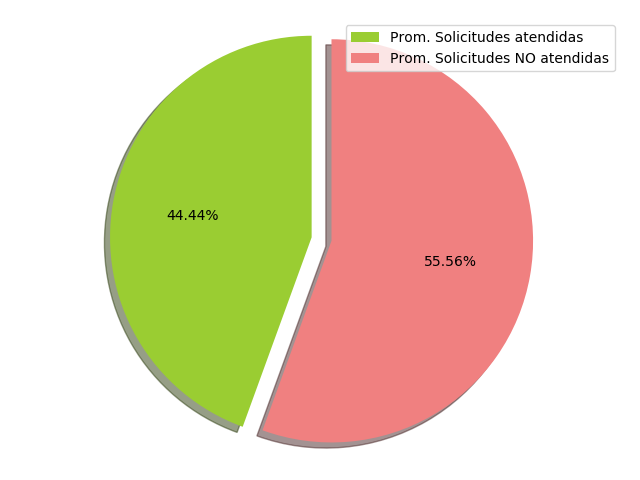
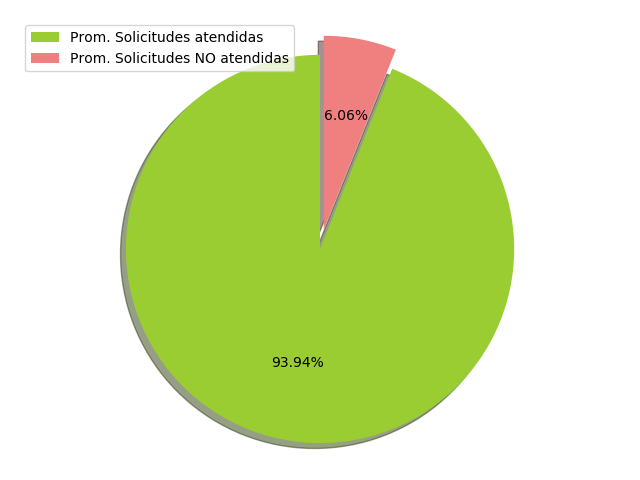
nuevas modificaciones en gui - qspinbox con set value

diff --git a/main.py b/main.py
@@ -25,19 +25,18 @@ class Formulario(QMainWindow):
         self.formulario.setupUi(self)
 
         #seteamos las variables iniciales
-        #self.iniciarVariables()
-        #self.formulario.btnSimulacion.clicked.connect(self.iniciarVariables)
+        self.iniciarVariables()
         #seteamos los eventos        
         self.formulario.btnSimulacion.clicked.connect(self.simular)
 
-    #def iniciarVariables(self):
-    #    self.formulario.lineEdit_exp.setText("1")
-    #    self.formulario.lineEdit_dias.setText("20")
-    #    self.formulario.lineEdit_incrementoM4.setText("50")
-    #    self.formulario.lineEdit_incrementoM6.setText("30")
-    #    self.formulario.lineEdit_velOperM4.setText("15")
-    #    self.formulario.lineEdit_velOperM6.setText("20")
-    #    self.formulario.lineEdit_diasProd.setText("10")
+    def iniciarVariables(self):
+        self.formulario.lineEdit_exp.setValue(1)
+        self.formulario.lineEdit_dias.setValue(20)
+        self.formulario.lineEdit_incrementoM4.setValue(50)
+        self.formulario.lineEdit_incrementoM6.setValue(30)
+        self.formulario.lineEdit_velOperM4.setValue(15)
+        self.formulario.lineEdit_velOperM6.setValue(20)
+        self.formulario.lineEdit_diasProd.setValue(10)
 
     def calcular_porcentajes(self, solicitudesAtendidas, solicitudesSinAtender):
         total = solicitudesAtendidas + solicitudesSinAtender
@@ -92,12 +91,6 @@ class Formulario(QMainWindow):
         plt.tight_layout()
         plt.savefig('imagenes/grafico{0}.png'.format(i))
         plt.show()
-        #self.formulario.primerGrafico.setScaledContents(True)
-        #self.formulario.primerGrafico.setPixmap(QtGui.QPixmap('imagenes/grafico1.png'))#tengo que terminar de verlo
-        #self.formulario.segundoGrafico.setScaledContents(True)
-        #self.formulario.segundoGrafico.setPixmap(QtGui.QPixmap('imagenes/grafico2.png'))#tengo que terminar de verlo
-        #self.formulario.segundoGrafico.setPixmap(QtGui.QPixmap('imagenes/grafico{0}.png'.format(l)))
-          
 
     def generarPedidos(self,pedidos):
         cantPedidosM4 = np.random.poisson(20)
